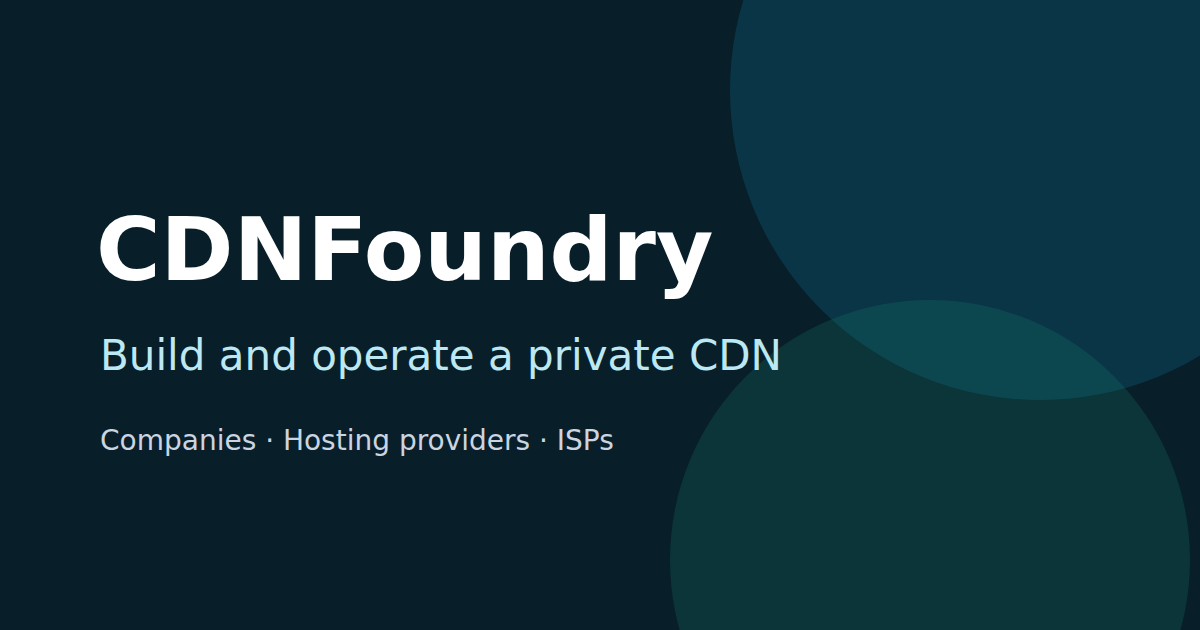
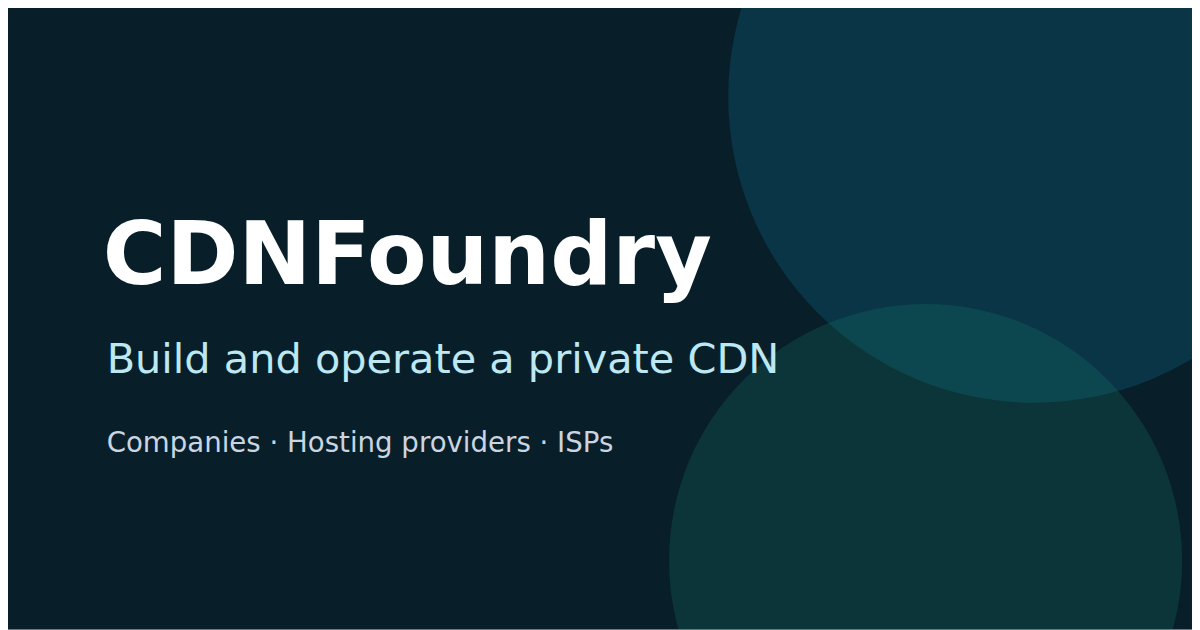
fix: generate the PNG social card with the documentation screenshots
The repository tracks raster images only where a test generates them, so the card is now rendered from
social-card.svg by docs-screenshots.spec.ts into docs/public/screenshots, and the hand-rendered copy is
removed. This fixes the documentation job's screenshot check.

diff --git a/tests/browser/specs/docs-screenshots.spec.ts b/tests/browser/specs/docs-screenshots.spec.ts
@@ -37,6 +37,15 @@ for (const scene of scenes) {
     });
 }
 
+// The social card search engines and link previews show: the SVG card rendered at 1200 by 630, since they do not read SVG.
+test('documentation social card', async ({ page }, info) => {
+    test.skip(info.project.name !== 'light-desktop', 'the card is rendered once');
+    await page.setViewportSize({ width: 1200, height: 630 });
+    await page.setContent(readFileSync(resolve(output, '../social-card.svg'), 'utf8'));
+    mkdirSync(output, { recursive: true });
+    await page.screenshot({ path: `${output}/social-card.png`, clip: { x: 0, y: 0, width: 1200, height: 630 } });
+});
+
 // The release these screenshots were taken for. scripts/ci/check_no_screenshots.py fails when it differs from VERSION.
 test('documentation screenshots record their release', async () => {
     const version = readFileSync(resolve(dirname(fileURLToPath(import.meta.url)), '../../../VERSION'), 'utf8').trim();

diff --git a/tests/docs/check_built_site.py b/tests/docs/check_built_site.py
@@ -161,7 +161,7 @@ def main() -> int:
     for source in ("index.md", "guides/security.md", "reference/security-rules.md"):
         if not (DIST / source).is_file():
             failures.append(f"{source}: the Markdown copy for AI agents is missing")
-    if not (DIST / "social-card.png").is_file() or 'social-card.png' not in home_markup:
+    if not (DIST / "screenshots" / "social-card.png").is_file() or 'screenshots/social-card.png' not in home_markup:
         failures.append("index.html: the Open Graph image must be the PNG social card")
     if '"@type":"SoftwareApplication"' not in home_markup:
         failures.append("index.html: missing SoftwareApplication structured data")
